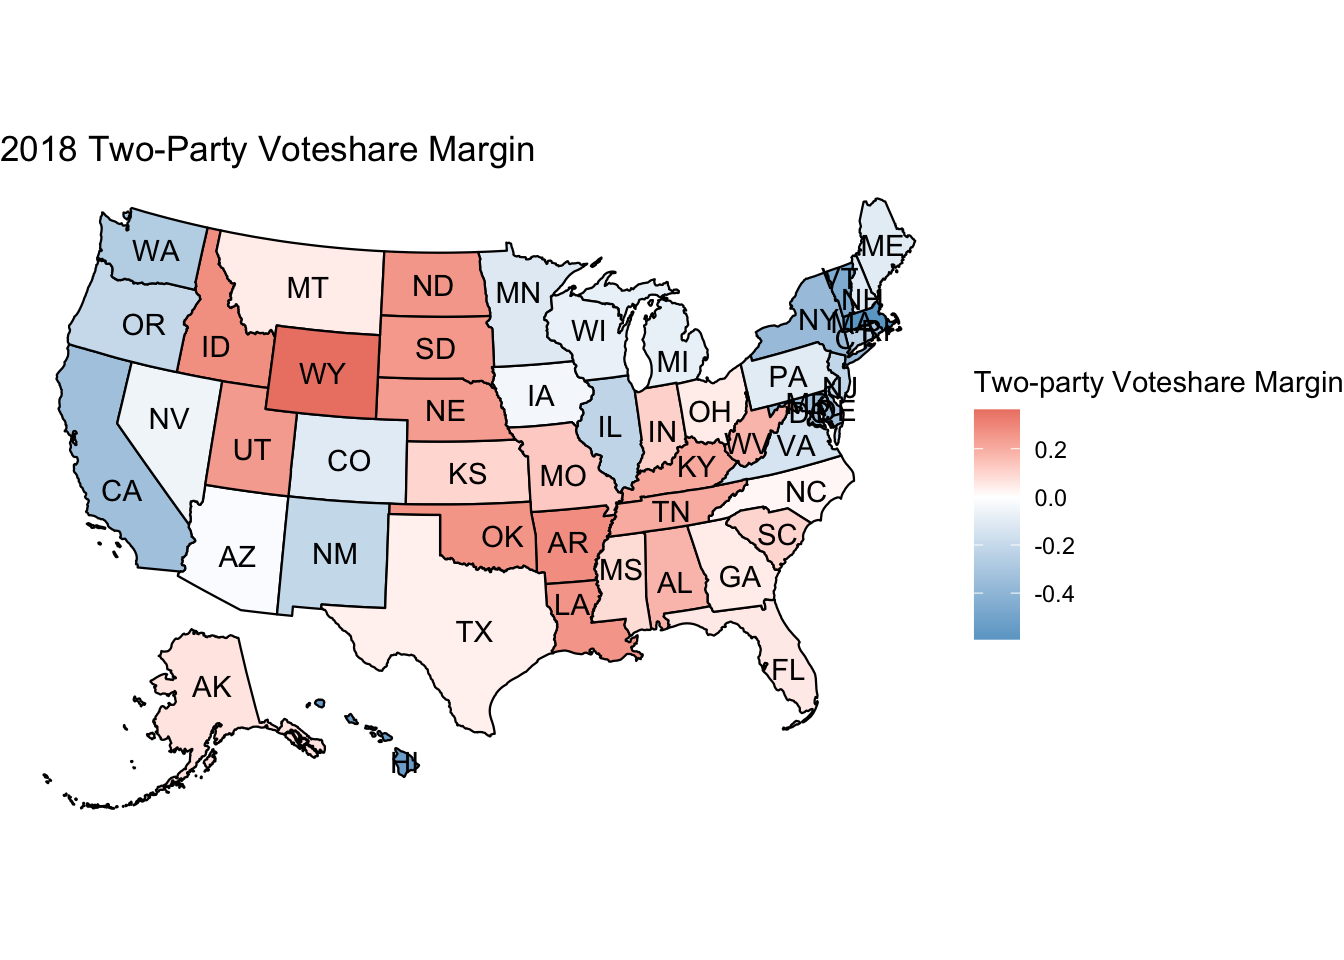
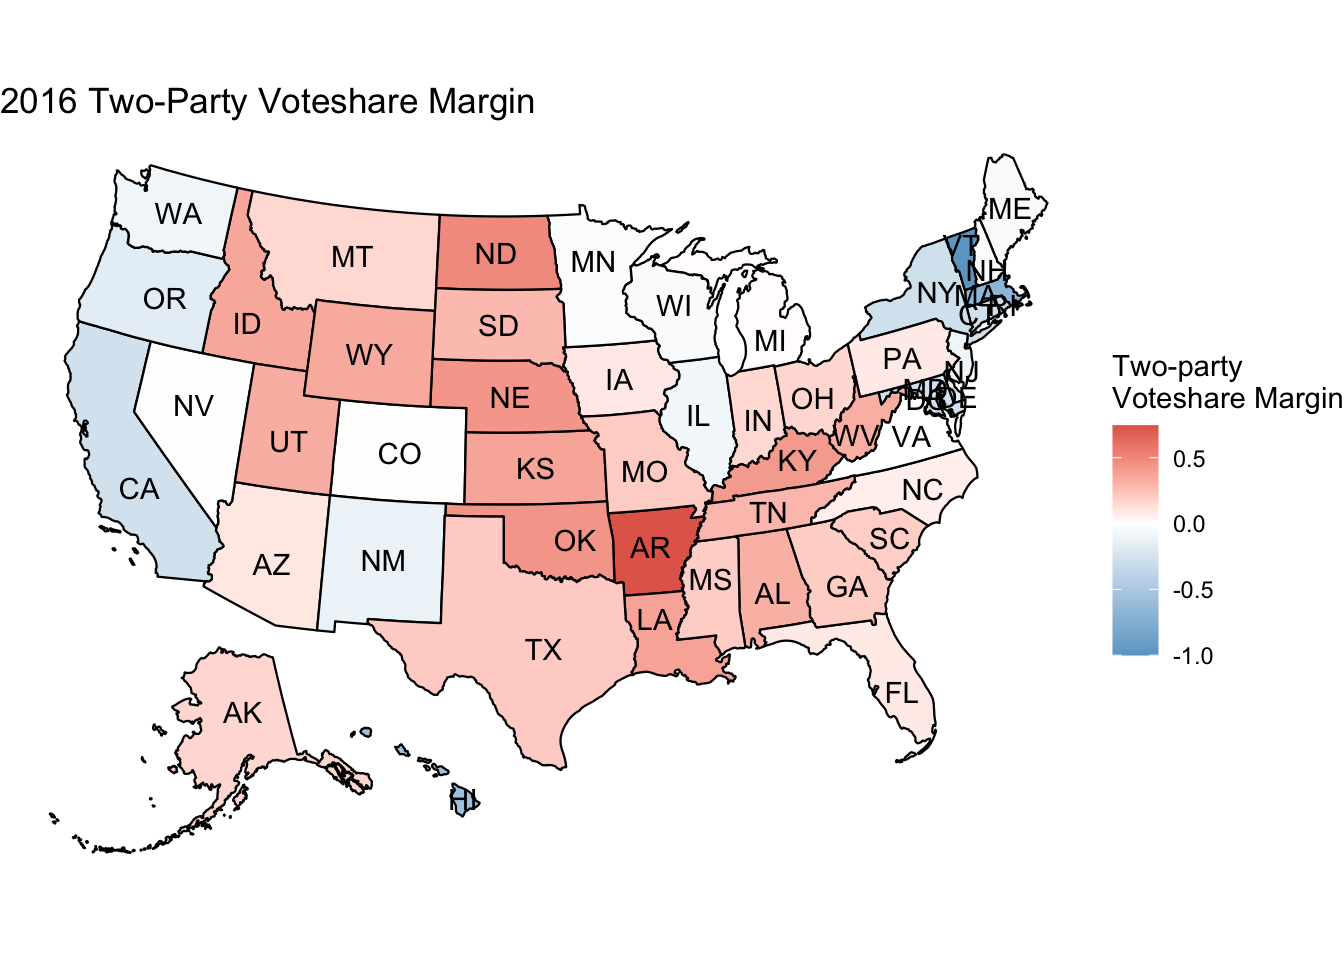
added 2016 graph

Changed region(s): [[0.0, 0.0938, 1.0, 0.875], [0.0625, 0.875, 0.125, 0.9062], [0.875, 0.5312, 0.9062, 0.5625]]

diff --git a/content/post/2022-09-15-blog-1-analysis/index.html b/content/post/2022-09-15-blog-1-analysis/index.html
@@ -11,5 +11,5 @@ slug: []
 
 
 <p>This week, I looked at the Republican/Democrat voteshare margin of House congressional elections. I analyzed the 2018 and 2014 congressional elections.</p>
-<p><img src="{{< blogdown/postref >}}index_files/figure-html/unnamed-chunk-3-1.png" width="672" /></p>
+<p><img src="{{< blogdown/postref >}}index_files/figure-html/unnamed-chunk-3-1.png" width="672" /><img src="{{< blogdown/postref >}}index_files/figure-html/unnamed-chunk-3-2.png" width="672" /></p>
 <p><img src="{{< blogdown/postref >}}index_files/figure-html/unnamed-chunk-5-1.png" width="672" /></p>
